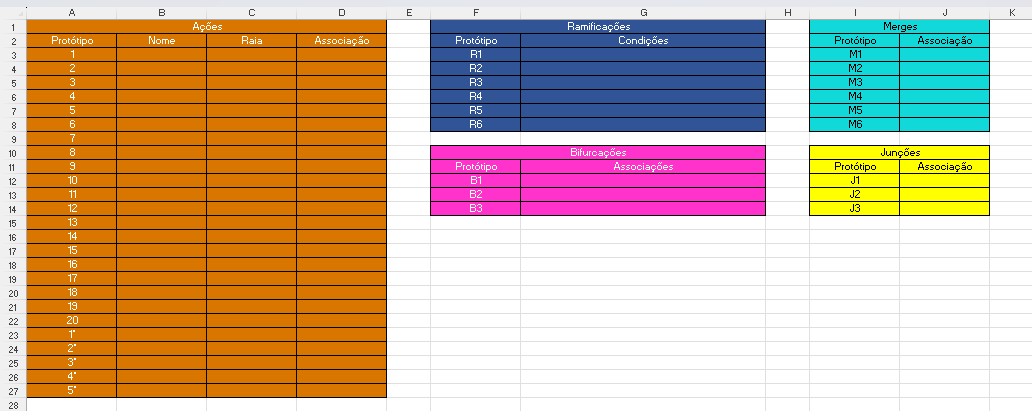
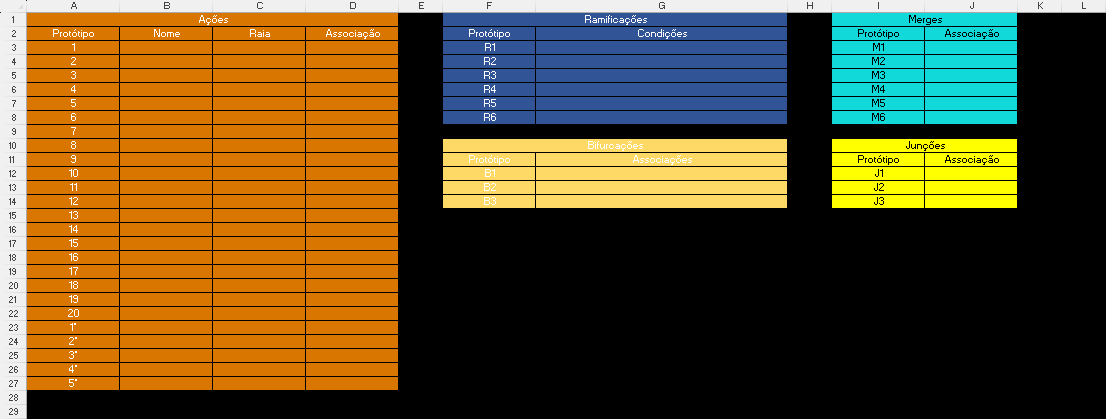
Roteiro

diff --git a/pages/screenplay.html b/pages/screenplay.html
@@ -32,7 +32,7 @@
       <section class="section" id="home">
         <div class="container">
           <h2 class="title">PARTE I - Boas-Vindas</h2>
-          <p>Olá! Seja bem-vindo ao nosso roteiro de uso, um dos pilares fundamentais do material didático. Este roteiro de uso é de extrema importância para que tanto o aluno quanto o professor o compreendam com clareza, a fim de praticá-lo posteriormente e contribuir para um aprendizado mais eficaz. Ele é composto por várias seções que possuem diversos exemplos, tais como informações sobre o material, especificações do material, instruções de uso, requisitos, conclusões e muitas outras. Cabe ressaltar que este roteiro é destinado tanto ao docente quanto ao discente. Caso o discente tenha alguma dúvida, o docente deve ser consultado.</p>
+          <p>Olá! Seja bem-vindo ao nosso roteiro de uso, um dos pilares fundamentais do material didático. Este roteiro de uso é de extrema importância para que tanto o aluno quanto o professor o compreendam com clareza, a fim de praticá-lo posteriormente e contribuir para um aprendizado mais eficaz. Este roteiro é composto por várias seções que possuem diversos exemplos, tais como informações sobre o material, especificações do material, instruções de uso, requisitos, conclusões e muitas outras informações. Cabe ressaltar que este roteiro é destinado tanto ao docente quanto ao discente. Caso o discente tenha alguma dúvida, o docente deve ser consultado.</p>
         </div>
         <div class="container" style="margin-top: 10vh;">
           <h2 class="title">PARTE II - Requisitos</h2>
@@ -42,12 +42,12 @@
           <p>3. O terceiro requisito é que tanto o aluno quanto o professor encarregado de orientar o aluno devem ter acesso ao Excel®. Isso garantirá um desempenho melhor e permitirá seguir a descrição da Tabela Auxiliar com precisão.</p>
         </div>
         <div class="container" style="margin-top: 10vh;">
-          <h2 class="title">PARTE III - Material</h2>
-          <p>O "Material Didático Concreto para Ensino e Aprendizagem de Modelagem de Atividade com UML" é composto por 20 ações, 5 ações que levam a um caso de uso, 3 bifurcações, 3 junções, 5 merges, 5 ramificações, 2 inícios, 5 fins, 7 raias de 20 centímetros, 4 raias de 11 centímetros, 3 conexões de fluxo de atividade de 64 centímetros, 4 conexões de fluxo de atividade de 30 centímetros, 22 conexões de fluxo de atividade de 9 centímetros e 20  presilhas que indicam o sentido do fluxos de atividade. Também inclui uma tabela auxiliar no Excel® e 4 bases do tipo LEGO®. A seguir, você encontrará algumas especificações.</p>
+          <h2 class="title">PARTE III - O Material</h2>
+          <p>Este material é composto por 20 ações, 5 ações que levam a um caso de uso, 3 bifurcações, 3 junções, 5 merges, 5 ramificações, 2 inícios, 5 fins, 7 raias de 20 centímetros, 4 raias de 11 centímetros, 3 conexões de fluxo de atividade de 64 centímetros, 4 conexões de fluxo de atividade de 30 centímetros, 22 conexões de fluxo de atividade de 9 centímetros e 20  presilhas que indicam o sentido do fluxos de atividade. Também inclui uma tabela auxiliar no Excel® e 4 bases do tipo LEGO®. A seguir, você encontrará algumas especificações.</p>
         </div>
         <div class="container" style="margin-top: 10vh;">
-          <h2 class="title">PARTE IV - Orientação e Características das Peças</h2>
-          <p>Nesta parte, iremos conhecer algumas características de diversas peças. As peças do "Material Didático Concreto para Ensino e Aprendizagem de Modelagem de Atividade com UML" diferem entre si em cor e formato, portanto, para uma melhor compreensão e diferenciação, é de extrema importância prestar atenção nas informações fornecidas sobre cada peça e suas características próprias.</p>
+          <h2 class="title">PARTE IV - Orientação e Características das Peças - Específico do Diagrama de Atividades</h2>
+          <p>Nesta parte, iremos autodescrever cada peça, logo, será possível conhecer as características de cada peça do Diagrama de Atividade e sua funcionalidade. As peças deste material diferem entre si em cor e formato, portanto, para uma melhor compreensão e diferenciação, é de extrema importância prestar atenção nas informações fornecidas sobre cada peça e suas características próprias.</p>
           <br/>
           <table>
             <tr>
@@ -61,68 +61,68 @@
               <td>
                 <p>Esta é uma base LEGO. Nosso material didático inclui quatro unidades dessa base. Cada base tem 25 centímetros de largura por 25 centímetros de comprimento, de formato quadrangular e é de cor branca. Na parte inferior da base, há uma placa de MDF em um tom de cor marrom/amarelado. Além disso, na parte inferior do MDF, existem duas unidades de dobradiça coladas, que servem para unir uma base LEGO à outra e também possuem algumas semiesferas para que as bases LEGO fiquem em uma superfície plana.</p>
                 <br/>
-                <p>A base LEGO é usada para encaixar as peças do nosso material didático, que representam elementos dentro de um diagrama de atividades. Ela permite que você construa e explore diferentes conceitos de forma tátil e interativa. As peças se encaixam na base LEGO, facilitando a compreensão das informações e o aprendizado.</p>
+                <p>A base LEGO é usada para encaixar as peças do nosso material didático, que representam elementos dentro de um Diagrama de Atividade. Ela permite que você construa e explore diferentes conceitos de forma tátil e interativa. As peças se encaixam na base LEGO, facilitando a compreensão das informações e o aprendizado.</p>
               </td>  
             </tr>
             <tr>
               <td class="centered-cell">
-                <img src="../assets/images/raia.png" alt="Raia">
+                <img src="" alt="Raia">
               </td>
               <td>
-                <p>Esta peça representa as raias no diagrama de atividade. Ela possui uma cor preta e tem o formato de um paralelepípedo fino e longo, que se encaixará entre os pinos da base LEGO para demarcar as raias. No material didático, essa representação de raia está disponível em duas medidas diferentes: 20 centímetros e 11 centímetros.</p>
+                <p>Esta peça representa as raias no Diagrama de Atividade. Ela possui uma cor preta e tem o formato de um paralelepípedo fino e longo, que se encaixará entre os pinos da base LEGO para demarcar as raias. No material didático, essa representação de raia está disponível em duas medidas diferentes: 20 centímetros e 11 centímetros.</p>
               </td>  
             </tr>
             <tr>
               <td class="centered-cell">
-                <img src="../assets/images/cabo.png" alt="Conector">
+                <img src="" alt="Conector">
               </td>
               <td>
-                <p>Esta peça é o conector e será utilizada em conjunto com a presilha e representa a conexão entre diferentes fluxos de atividade no diagrama de atividade. Trata-se de um cabo de silicone na cor preta que possui dois conectores RJ45, um em cada extremidade. No material didático, este cabo está disponível em três medidas diferentes: 64 centímetros, 30 centímetros e 22 centímetros, sendo utilizado para interligar fluxos de atividade mais longos e mais curtos.</p>
+                <p>Esta peça é o conector e será utilizada em conjunto com a presilha e representa a conexão entre diferentes fluxos de atividade no Diagrama de Atividades. Trata-se de um cabo de silicone na cor preta que possui dois conectores RJ45, um em cada extremidade. No material didático, este cabo está disponível em três medidas diferentes: 64 centímetros, 30 centímetros e 22 centímetros, sendo utilizado para interligar fluxos de atividade mais longos e mais curtos.</p>
               </td>  
             </tr>
             <tr>
               <td class="centered-cell">
-                <img src="../assets/images/seta.png" alt="Presilha do Conector">
+                <img src="" alt="Presilha do Conector">
               </td>
               <td>
-                <p>Esta peça é a presilha e será utilizada em conjunto com o conector e representa a direção da seta no diagrama de atividade. Ela possui uma parte inferior com um encaixe projetado para se conectar ao cabo do conector, sendo essa parte inferior na cor preta. Na parte superior da presilha encontra-se uma seta, a qual é usada para indicar o sentido do fluxo de atividade, e essa parte superior é na cor verde.</p>
+                <p>Esta peça é a presilha e será utilizada em conjunto com o conector e representa a direção da seta no Diagrama de Atividades. Ela possui uma parte inferior com um encaixe projetado para se conectar ao cabo do conector, sendo essa parte inferior na cor preta. Na parte superior da presilha encontra-se uma seta, a qual é usada para indicar o sentido do fluxo de atividade, e essa parte superior é na cor verde.</p>
               </td>  
             </tr>
             <tr>
               <td class="centered-cell">
-                <img src="../assets/images/inicio.png" alt="Peça Início">
+                <img src="" alt="Peça Início">
               </td>
               <td>
-                <p>Esta peça representa o início no diagrama de atividade. Ela possui uma parte inferior que tem um encaixe projetado para se encaixar na base LEGO, e essa parte inferior é de cor preta. A peça tem o formato de um quadrado e possui quatro entradas para conectores RJ-45, com uma entrada em cada lado.</p>
+                <p>Esta peça representa o início no Diagrama de Atividades. Ela possui uma parte inferior que tem um encaixe projetado para se encaixar na base LEGO, e essa parte inferior é de cor preta. A peça tem o formato de um quadrado e possui quatro entradas para conectores RJ-45, com uma entrada em cada lado.</p>
                 <br/>
                 <p>Na parte superior da peça, há identificações táteis na cor verde. No lado direito, há uma letra "i", e no lado esquerdo, há a mesma letra "i" em Braille, permitindo que você identifique a orientação correta da peça de maneira tátil.</p>
               </td>  
               <tr>
                 <td class="centered-cell">
-                  <img src="../assets/images/fim.png" alt="Peça Fim">
+                  <img src="" alt="Peça Fim">
                 </td>
                 <td>
-                  <p>Esta peça representa o fim no diagrama de atividade. Ela possui uma parte inferior que tem um encaixe projetado para se encaixar na base LEGO, e essa parte inferior é de cor preta. A peça tem o formato de um quadrado e possui quatro entradas para conectores RJ-45, com uma entrada em cada lado.</p>
+                  <p>Esta peça representa o fim no Diagrama de Atividades. Ela possui uma parte inferior que tem um encaixe projetado para se encaixar na base LEGO, e essa parte inferior é de cor preta. A peça tem o formato de um quadrado e possui quatro entradas para conectores RJ-45, com uma entrada em cada lado.</p>
                   <br/>
                   <p>Na parte superior da peça, há identificações táteis na cor roxa. No lado direito, há uma letra "f", e no lado esquerdo, há a mesma letra "f" em Braille, permitindo que você identifique a orientação correta da peça de maneira tátil.</p>
                 </td>  
               </tr>
               <tr>
                 <td class="centered-cell">
-                  <img src="../assets/images/acao.png" alt="Peça Ação">
+                  <img src="" alt="Peça Ação">
                 </td>
                 <td>
-                  <p>Esta peça representa a ação no diagrama de atividade. Ela possui uma parte inferior que tem um encaixe projetado para se encaixar na base LEGO, e essa parte inferior é de cor preta. A peça tem o formato de um retângulo, e em ambos os lados maiores, cada um desses lados possui quatro entradas para conectores RJ-45.</p>
+                  <p>Esta peça representa a ação no Diagrama de Atividades. Ela possui uma parte inferior que tem um encaixe projetado para se encaixar na base LEGO, e essa parte inferior é de cor preta. A peça tem o formato de um retângulo, e em ambos os lados maiores, cada um desses lados possui quatro entradas para conectores RJ-45.</p>
                   <br/>
                   <p>Na parte superior da peça, há identificações táteis na cor laranja. No lado direito, há um número que pode variar de 1 a 20, e no lado esquerdo, há o mesmo número em Braille, permitindo que você identifique a orientação correta da peça de maneira tátil.</p>
                 </td>  
               </tr>
               <tr>
                 <td class="centered-cell">
-                  <img src="../assets/images/uc.png" alt="Peça Ação de Chamada de Caso de Uso">
+                  <img src="" alt="Peça Ação de Chamada de Caso de Uso">
                 </td>
                 <td>
-                  <p>Esta peça representa a ação de chamada de caso de uso no diagrama de atividade. Ela possui uma parte inferior que tem um encaixe projetado para se encaixar na base LEGO, e essa parte inferior é de cor preta. A peça tem o formato de um retângulo, e em ambos os lados maiores, cada um desses lados possui quatro entradas para conectores RJ-45.</p>
+                  <p>Esta peça representa a ação de chamada de caso de uso no Diagrama de Atividades. Ela possui uma parte inferior que tem um encaixe projetado para se encaixar na base LEGO, e essa parte inferior é de cor preta. A peça tem o formato de um retângulo, e em ambos os lados maiores, cada um desses lados possui quatro entradas para conectores RJ-45.</p>
                   <br/>
                   <p>Na parte superior da peça, há identificações táteis na cor laranja. No lado direito, há um número que varia de 1 a 5, sempre acompanhado de um asterisco (utilizado para indicar a chamada de caso de uso). No lado esquerdo, há o mesmo número em Braille, também acompanhado de um asterisco, permitindo que você identifique a orientação correta da peça de maneira tátil.</p>
                 </td>  
@@ -132,7 +132,7 @@
                   <img src="../assets/images/ramificacao.png" alt="Peça Ramificação">
                 </td>
                 <td>
-                  <p>Esta peça representa a ramificação no diagrama de atividade. Ela possui uma parte inferior que tem um encaixe projetado para se encaixar na base LEGO, e essa parte inferior é de cor preta. A peça possui o formato de um octógono, e para tornar isso mais claro, você pode imaginar como uma bússola. Os conectores RJ45 estão localizados nas direções correspondentes aos pontos cardeais: norte, sul, leste e oeste. Imagine os conectores distribuídos como se fossem os pontos de uma bússola, facilitando a identificação e conexão. Em síntese, a peça possui 8 lados, sendo que 4 deles têm uma entrada para conector RJ45. Isso significa que, ao passar a mão ao longo dos lados sequencialmente, um de cada vez, você poderá identificar a seguinte sequência: encaixa, não encaixa, encaixa, não encaixa...</p>
+                  <p>Esta peça representa a ramificação no Diagrama de Atividades. Ela possui uma parte inferior que tem um encaixe projetado para se encaixar na base LEGO, e essa parte inferior é de cor preta. A peça possui o formato de um octógono, e para tornar isso mais claro, você pode imaginar como uma bússola. Os conectores RJ45 estão localizados nas direções correspondentes aos pontos cardeais: norte, sul, leste e oeste. Imagine os conectores distribuídos como se fossem os pontos de uma bússola, facilitando a identificação e conexão. Em síntese, a peça possui 8 lados, sendo que 4 deles têm uma entrada para conector RJ45. Isso significa que, ao passar a mão ao longo dos lados sequencialmente, um de cada vez, você poderá identificar a seguinte sequência: encaixa, não encaixa, encaixa, não encaixa...</p>
                   <br/>
                   <p>Na parte superior da peça, há identificações táteis na cor azul. No lado direito, encontra-se a letra 'r' acompanhada por um número que pode variar de 1 a 5. No lado esquerdo, há a mesma letra acompanhada pelo mesmo número em Braille, permitindo que você identifique a orientação correta da peça de maneira tátil.</p>
                 </td>  
@@ -142,27 +142,27 @@
                   <img src="../assets/images/merge.png" alt="Peça Merge">
                 </td>
                 <td>
-                  <p>Esta peça representa a merge no diagrama de atividade. Ela possui uma parte inferior que tem um encaixe projetado para se encaixar na base LEGO, e essa parte inferior é de cor preta. A peça possui o formato de um octógono, e para tornar isso mais claro, você pode imaginar como uma bússola. Os conectores RJ45 estão localizados nas direções correspondentes aos pontos cardeais: norte, sul, leste e oeste. Imagine os conectores distribuídos como se fossem os pontos de uma bússola, facilitando a identificação e conexão. Em síntese, a peça possui 8 lados, sendo que 4 deles têm uma entrada para conector RJ45. Isso significa que, ao passar a mão ao longo dos lados sequencialmente, um de cada vez, você poderá identificar a seguinte sequência: encaixa, não encaixa, encaixa, não encaixa...</p>
+                  <p>Esta peça representa a merge no Diagrama de Atividades. Ela possui uma parte inferior que tem um encaixe projetado para se encaixar na base LEGO, e essa parte inferior é de cor preta. A peça possui o formato de um octógono, e para tornar isso mais claro, você pode imaginar como uma bússola. Os conectores RJ45 estão localizados nas direções correspondentes aos pontos cardeais: norte, sul, leste e oeste. Imagine os conectores distribuídos como se fossem os pontos de uma bússola, facilitando a identificação e conexão. Em síntese, a peça possui 8 lados, sendo que 4 deles têm uma entrada para conector RJ45. Isso significa que, ao passar a mão ao longo dos lados sequencialmente, um de cada vez, você poderá identificar a seguinte sequência: encaixa, não encaixa, encaixa, não encaixa...</p>
                   <br/>
                   <p>Na parte superior da peça, há identificações táteis na cor verde tiffany. No lado direito, encontra-se a letra 'm' acompanhada por um número que pode variar de 1 a 5. No lado esquerdo, há a mesma letra acompanhada pelo mesmo número em Braille, permitindo que você identifique a orientação correta da peça de maneira tátil.</p>
                 </td>  
               </tr>
               <tr>
                 <td class="centered-cell">
-                  <img src="../assets/images/bifurcacao.png" alt="Peça Bifurcação">
+                  <img src="" alt="Peça Bifurcação">
                 </td>
                 <td>
-                  <p>Esta peça representa a bifurcação no diagrama de atividade. Ela possui uma parte inferior que tem um encaixe projetado para se encaixar na base LEGO, e essa parte inferior é de cor preta. A peça possui o formato de um funil, para tornar isso mais claro. Os encaixes de conectores RJ45 estão localizados na parte mais larga deste "funil", onde se encontram três entradas para conectores RJ45. Na parte mais estreita deste "funil", encontra-se uma entrada para conector RJ45.</p>
+                  <p>Esta peça representa a bifurcação no Diagrama de Atividades. Ela possui uma parte inferior que tem um encaixe projetado para se encaixar na base LEGO, e essa parte inferior é de cor preta. A peça possui o formato de um funil, para tornar isso mais claro. Os encaixes de conectores RJ45 estão localizados na parte mais larga deste "funil", onde se encontram três entradas para conectores RJ45. Na parte mais estreita deste "funil", encontra-se uma entrada para conector RJ45.</p>
                   <br/>
-                  <p>Na parte superior da peça, há identificações táteis na cor rosa. No lado direito, encontra-se a letra 'j' acompanhada por um número que pode variar de 1 a 5. No lado esquerdo, há a mesma letra acompanhada pelo mesmo número em Braille, permitindo que você identifique a orientação correta da peça de maneira tátil.</p>
+                  <p>Na parte superior da peça, há identificações táteis na cor dourada/amarronzado. No lado direito, encontra-se a letra 'j' acompanhada por um número que pode variar de 1 a 5. No lado esquerdo, há a mesma letra acompanhada pelo mesmo número em Braille, permitindo que você identifique a orientação correta da peça de maneira tátil.</p>
                 </td>  
               </tr>
               <tr>
                 <td class="centered-cell">
-                  <img src="../assets/images/juncao.png" alt="Peça Junção">
+                  <img src="" alt="Peça Junção">
                 </td>
                 <td>
-                  <p>Esta peça representa a junção no diagrama de atividade. Ela possui uma parte inferior que tem um encaixe projetado para se encaixar na base LEGO, e essa parte inferior é de cor preta. A peça possui o formato de um funil, para tornar isso mais claro. Os encaixes de conectores RJ45 estão localizados na parte mais larga deste "funil", onde se encontram três entradas para conectores RJ45. Na parte mais estreita deste "funil", encontra-se uma entrada para conector RJ45.</p>
+                  <p>Esta peça representa a junção no Diagrama de Atividades. Ela possui uma parte inferior que tem um encaixe projetado para se encaixar na base LEGO, e essa parte inferior é de cor preta. A peça possui o formato de um funil, para tornar isso mais claro. Os encaixes de conectores RJ45 estão localizados na parte mais larga deste "funil", onde se encontram três entradas para conectores RJ45. Na parte mais estreita deste "funil", encontra-se uma entrada para conector RJ45.</p>
                   <br/>
                   <p>Na parte superior da peça, há identificações táteis na cor amarela. No lado direito, encontra-se a letra 'j' acompanhada por um número que pode variar de 1 a 5. No lado esquerdo, há a mesma letra acompanhada pelo mesmo número em Braille, permitindo que você identifique a orientação correta da peça de maneira tátil.</p>
                 </td>  
@@ -172,33 +172,74 @@
           <p>Após o conhecimento das características de cada peça, é de extrema importância que o professor oriente o aluno neste processo de familiarização, permitindo que o aluno possa reconhecer e memorizar as características de cada peça. Portanto, é fundamental que o professor possa oferecer assistência nesse processo.</p>
         </div>
         <div class="container" style="margin-top: 10vh;">
-          <h2 class="title">PARTE V - Como se Utilizar</h2>
+          <h2 class="title">PARTE V - Orientação e Características das Peças - Específico do Diagrama de Casos de Uso</h2>
+          <p>Nesta parte, iremos autodescrever cada peça, logo, será possível conhecer as características de cada peça do Diagrama de Casos de Uso e sua funcionalidade. As peças deste material diferem entre si em cor e formato, portanto, para uma melhor compreensão e diferenciação, é de extrema importância prestar atenção nas informações fornecidas sobre cada peça e suas características próprias.</p>
+          <br/>
+          <p>Em construção...</p><br/>
+          <br/>
+        </div>
+        <div class="container" style="margin-top: 10vh;">
+          <h2 class="title">PARTE VI - Orientação e Características das Peças - Específico do Diagrama de Classes</h2>
+          <p>Nesta parte, iremos autodescrever cada peça, logo, será possível conhecer as características de cada peça do Diagrama de Classes e sua funcionalidade. As peças deste material diferem entre si em cor e formato, portanto, para uma melhor compreensão e diferenciação, é de extrema importância prestar atenção nas informações fornecidas sobre cada peça e suas características próprias.</p>
+          <br/>
+          <p>Em construção...</p><br/>
+          <br/>
+        </div>
+        <div class="container" style="margin-top: 10vh;">
+          <h2 class="title">PARTE VII - Orientação e Características das Peças - Específico do Modelo Relacional de Dados</h2>
+          <p>Nesta parte, iremos autodescrever cada peça, logo, será possível conhecer as características de cada peça do Modelo Relacional de Dados e sua funcionalidade. As peças deste material diferem entre si em cor e formato, portanto, para uma melhor compreensão e diferenciação, é de extrema importância prestar atenção nas informações fornecidas sobre cada peça e suas características próprias.</p>
+          <br/>
+          <p>Em construção...</p><br/>
+          <br/>
+        </div>
+        <div class="container" style="margin-top: 10vh;">
+          <h2 class="title">PARTE VIII - Como se Utilizar</h2>
           <p>Em construção...</p><br/>
         </div>
         <div class="container" style="margin-top: 10vh;">
-          <h2 class="title">PARTE VI - Tabela Auxiliar</h2>
-          <p>É essencial que, durante a utilização da tabela auxiliar, seja utilizado um leitor de tela. A utilização da tabela auxiliar deve ser feita através das teclas adicionais do teclado, de maneira informal, as setinhas. A tabela auxiliar possui diversas mini tabelas, sendo que cada mini tabela representa uma peça que tem uma funcionalidade no diagrama de atividade. A tabela maior, na cor laranja, representa as ações que também inclui as ações que levam a um caso de uso. As tabelas de tamanho médio representam ramificações e bifurcações, nas cores azul e rosa, respectivamente. As tabelas pequenas representam as merges e as junções, nas cores verde tiffany e amarelo, respectivamente. Cabe ressaltar que a tabela não possui o início e o fim, uma vez que o próprio nome se auto-identifica. No entanto, em todo o diagrama, deve haver pelo menos um fim dentro de uma associação. Uma última observação nesta introdução, é que as mini tabelas são separadas por uma célula em branco.</p><br/>
+          <h2 class="title">PARTE IX - Tabela Auxiliar - Específico do Diagrama de Atividades</h2>
+          <p>É essencial que, durante a utilização da tabela auxiliar, seja utilizado um leitor de tela. A utilização da tabela auxiliar deve ser feita através das teclas adicionais do teclado, de maneira informal, as setinhas. A tabela auxiliar possui diversas mini tabelas, sendo que cada mini tabela representa uma peça que tem uma funcionalidade no Diagrama de Atividade. A tabela maior, na cor laranja, representa as ações que também inclui as ações que levam a um caso de uso. As tabelas de tamanho médio representam ramificações e bifurcações, nas cores azul e dourada/amarronzado claro, respectivamente. As tabelas pequenas representam as merges e as junções, nas cores verde tiffany e amarelo, respectivamente. Cabe ressaltar que a tabela não possui o início e o fim, uma vez que o próprio nome se auto-identifica. No entanto, em todo o diagrama, deve haver pelo menos um fim dentro de uma associação. Uma última observação nesta introdução, é que as mini tabelas são separadas por uma célula em branco.</p><br/>
           <div class="image" style="margin-top: 10vh;">
             <img src="../assets/images/tabauxiliar.png" alt="Tabela Auxiliar" />
           </div>
           <br/>
           <p>Falando detalhadamente sobre o conteúdo que cada tabela possui e quais são as funcionalidades desses conteúdo. </p><br/>
-          <p>A tabela de ações, que inclui ações que levam a um caso de uso, possui quatro colunas: "A", "B", "C" e "D". A coluna "A" é responsável por armazenar o protótipo, e esse valor é fixo, não sendo possível alterá-lo. No protótipo, são descritas as identificações das peças, abrangendo as ações do protótipo de número 1 a 20, as cinco ultimas linhas dessas tabela é possivel ver do 1* até o 5* que indica as ações que leva a um caso de uso. Ainda nessa tabela, a coluna B, que indica o nome, é responsável por armazenar o nome da ação, ou seja, qual atividade ela está executando. A coluna C indica a raia à qual a ação pertence. Por fim, a coluna D indica a associação, sendo responsável por armazenar o protótipo da próxima ação a ser executada.</p><br/>
-          <p>A tabela de ramificações possui duas colunas: "F" e "G". A coluna "F" é responsável por armazenar o protótipo, e esse valor é fixo, não sendo possível alterá-lo. No protótipo, são descritas as identificações das peças, abrangendo as ramificações do protótipo de R1 a R6. Já a coluna "G", que indica as condições, é responsável por armazenar a condição, juntamente com o protótipo da próxima atividade a ser executada, que deve ser citado entre parênteses. Havendo mais de uma condição, deve ser separado por ponto e vírgula (';').</p><br/>
-          <p>A tabela de bifurcações possui duas colunas: "F" e "G". A coluna "F" é responsável por armazenar o protótipo, e esse valor é fixo, não sendo possível alterá-lo. No protótipo, são descritas as identificações das peças, abrangendo as bifurcações do protótipo de B1 a B3. Já a coluna "G", que indica as condições, é responsável por armazenar a condição. Havendo mais de uma condição, deve ser separado por ponto e vírgula (';'). Cabe ressaltar que a tabela de bifurcação se encontra logo abaixo da tabela de ramificações.</p><br/>
-          <p>A tabela de merges possui duas colunas: "I" e "J". A coluna "I" é responsável por armazenar o protótipo, e esse valor é fixo, não sendo possível alterá-lo. No protótipo, são descritas as identificações das peças, abrangendo as merges do protótipo de M1 a M6. Já a coluna "J", que indica as condições, é responsável por armazenar a condição. Havendo mais de uma condição, deve ser separado por ponto e vírgula (';'). </p><br/>
-          <p>A tabela de junções possui duas colunas: "I" e "J". A coluna "I" é responsável por armazenar o protótipo, e esse valor é fixo, não sendo possível alterá-lo. No protótipo, são descritas as identificações das peças, abrangendo as junções do protótipo de J1 a J3. Já a coluna "J", que indica as condições, é responsável por armazenar a condição. Havendo mais de uma condição, deve ser separado por ponto e vírgula (';'). Cabe ressaltar que a tabela de junções se encontra logo abaixo da tabela de merges.</p><br/>
-          <p>Apesar dessas tabelas possuir um funcionamento semelhante uns aos outros, suas funcionalidades é significativamente diferente no diagrama de atividade. Logo, é destacado novamente a importância do conhecimento prévio mencionado no início do roteiro de uso. Por se tratar de uma parte relativamente difícil de se entender o funcionamento da tabela, fica sob a responsabilidade do docente auxiliar o discente. Veja a seguir um exemplo da tabela auxiliar sendo utilizada na prática.</p><br/>
+          <p>A tabela de ações, que inclui ações que levam a um caso de uso, possui quatro colunas: "A", "B", "C" e "D". A coluna "A" é responsável por armazenar o protótipo. No protótipo, são descritas as identificações das peças, abrangendo as ações do protótipo de número 1 a 20, as cinco ultimas linhas dessas tabela é possivel ver do 1* até o 5* que indica as ações que leva a um caso de uso. Ainda nessa tabela, a coluna B, que indica o nome, é responsável por armazenar o nome da ação, ou seja, qual atividade ela está executando. A coluna C indica a raia à qual a ação pertence. Por fim, a coluna D indica a associação, sendo responsável por armazenar o protótipo da próxima ação a ser executada.</p><br/>
+          <p>A tabela de ramificações possui duas colunas: "F" e "G". A coluna "F" é responsável por armazenar o protótipo. No protótipo, são descritas as identificações das peças, abrangendo as ramificações do protótipo de R1 a R6. Já a coluna "G", que indica as condições, é responsável por armazenar a condição, juntamente com o protótipo da próxima atividade a ser executada, que deve ser citado entre parênteses. Havendo mais de uma condição, deve ser separado por ponto e vírgula (';').</p><br/>
+          <p>A tabela de bifurcações possui duas colunas: "F" e "G". A coluna "F" é responsável por armazenar o protótipo. No protótipo, são descritas as identificações das peças, abrangendo as bifurcações do protótipo de B1 a B3. Já a coluna "G", que indica as associações, é responsável por armazenar o nome da próxima ação a ser executada, juntamente com o protótipo da próxima atividade a ser executada, que deve ser citado entre parênteses. Havendo mais de uma associação, deve ser separado por ponto e vírgula (';'). Cabe ressaltar que a tabela de bifurcação se encontra logo abaixo da tabela de ramificações.</p><br/>
+          <p>A tabela de merges possui duas colunas: "I" e "J". A coluna "I" é responsável por armazenar o protótipo. No protótipo, são descritas as identificações das peças, abrangendo as merges do protótipo de M1 a M6. Já a coluna "J", que indica as associações, é responsável por armazenar o nome da próxima ação a ser executada, juntamente com o protótipo da próxima atividade a ser executada, que deve ser citado entre parênteses. Havendo mais de uma associação, deve ser separado por ponto e vírgula (';'). </p><br/>
+          <p>A tabela de junções possui duas colunas: "I" e "J". A coluna "I" é responsável por armazenar o protótipo. No protótipo, são descritas as identificações das peças, abrangendo as junções do protótipo de J1 a J3. Já a coluna "J", que indica as associações, é responsável por armazenar o nome da próxima ação a ser executada, juntamente com o protótipo da próxima atividade a ser executada, que deve ser citado entre parênteses. Havendo mais de uma associação, deve ser separado por ponto e vírgula (';'). Cabe ressaltar que a tabela de junções se encontra logo abaixo da tabela de merges.</p><br/>
+          <p>Apesar dessas tabelas possuir um funcionamento semelhante uns aos outros, suas funcionalidades é significativamente diferente no Diagrama de Atividade. Logo, é destacado novamente a importância do conhecimento prévio mencionado no início do roteiro de uso. Por se tratar de uma parte relativamente difícil de se entender o funcionamento da tabela, fica sob a responsabilidade do docente auxiliar o discente. Veja a seguir um exemplo da tabela auxiliar sendo utilizada na prática.</p><br/>
           <div class="image" style="margin-top: 10vh;">
             <img src="../assets/images/tabex.png" alt="Tabela Auxiliar" />
           </div>
         </div>
         <div class="container" style="margin-top: 10vh;">
-          <h2 class="title">PARTE VII - Exemplos</h2>
+          <h2 class="title">PARTE X - Tabela Auxiliar - Específico do Diagrama de Casos de Uso</h2>
           <p>Em construção...</p><br/>
         </div>
         <div class="container" style="margin-top: 10vh;">
-          <h2 class="title">PARTE VIII - Conclusão</h2>
+          <h2 class="title">PARTE XI - Tabela Auxiliar - Específico do Diagrama de Classes</h2>
+          <p>Em construção...</p><br/>
+        </div>
+        <div class="container" style="margin-top: 10vh;">
+          <h2 class="title">PARTE XII - Tabela Auxiliar - Específico do Diagrama do Modelo Relacional de Dados</h2>
+          <p>Em construção...</p><br/>
+        </div>
+        <div class="container" style="margin-top: 10vh;">
+          <h2 class="title">PARTE XIII - Exemplos - Específico do Diagrama de Casos de Uso</h2>
+          <p>Em construção...</p><br/>
+        </div>
+        <div class="container" style="margin-top: 10vh;">
+          <h2 class="title">PARTE XIV - Exemplos - Específico do Diagrama de Classes</h2>
+          <p>Em construção...</p><br/>
+        </div>
+        <div class="container" style="margin-top: 10vh;">
+          <h2 class="title">PARTE XV - Exemplos - Específico do Modelo Relacional de Dados</h2>
+          <p>Em construção...</p><br/>
+        </div>
+        <div class="container" style="margin-top: 10vh;">
+          <h2 class="title">PARTE XVI- Conclusão</h2>
           <p>Por fim, esperamos que você tenha compreendido o funcionamento do material didático. Se alguma dúvida não foi esclarecida ou se surgir alguma dúvida atípica, <a href="mailto:projetouml3d@gmail.com">clique aqui</a> para entrar em contato conosco via e-mail ou <a href="https://www.instagram.com/_uml3d/">clique aqui</a> para nos contatar diretamente pelo Instagram. Agradecemos imensamente pela sua atenção e desejamos a você um ótimo aprendizado!</p>
         </div>
       </section>
